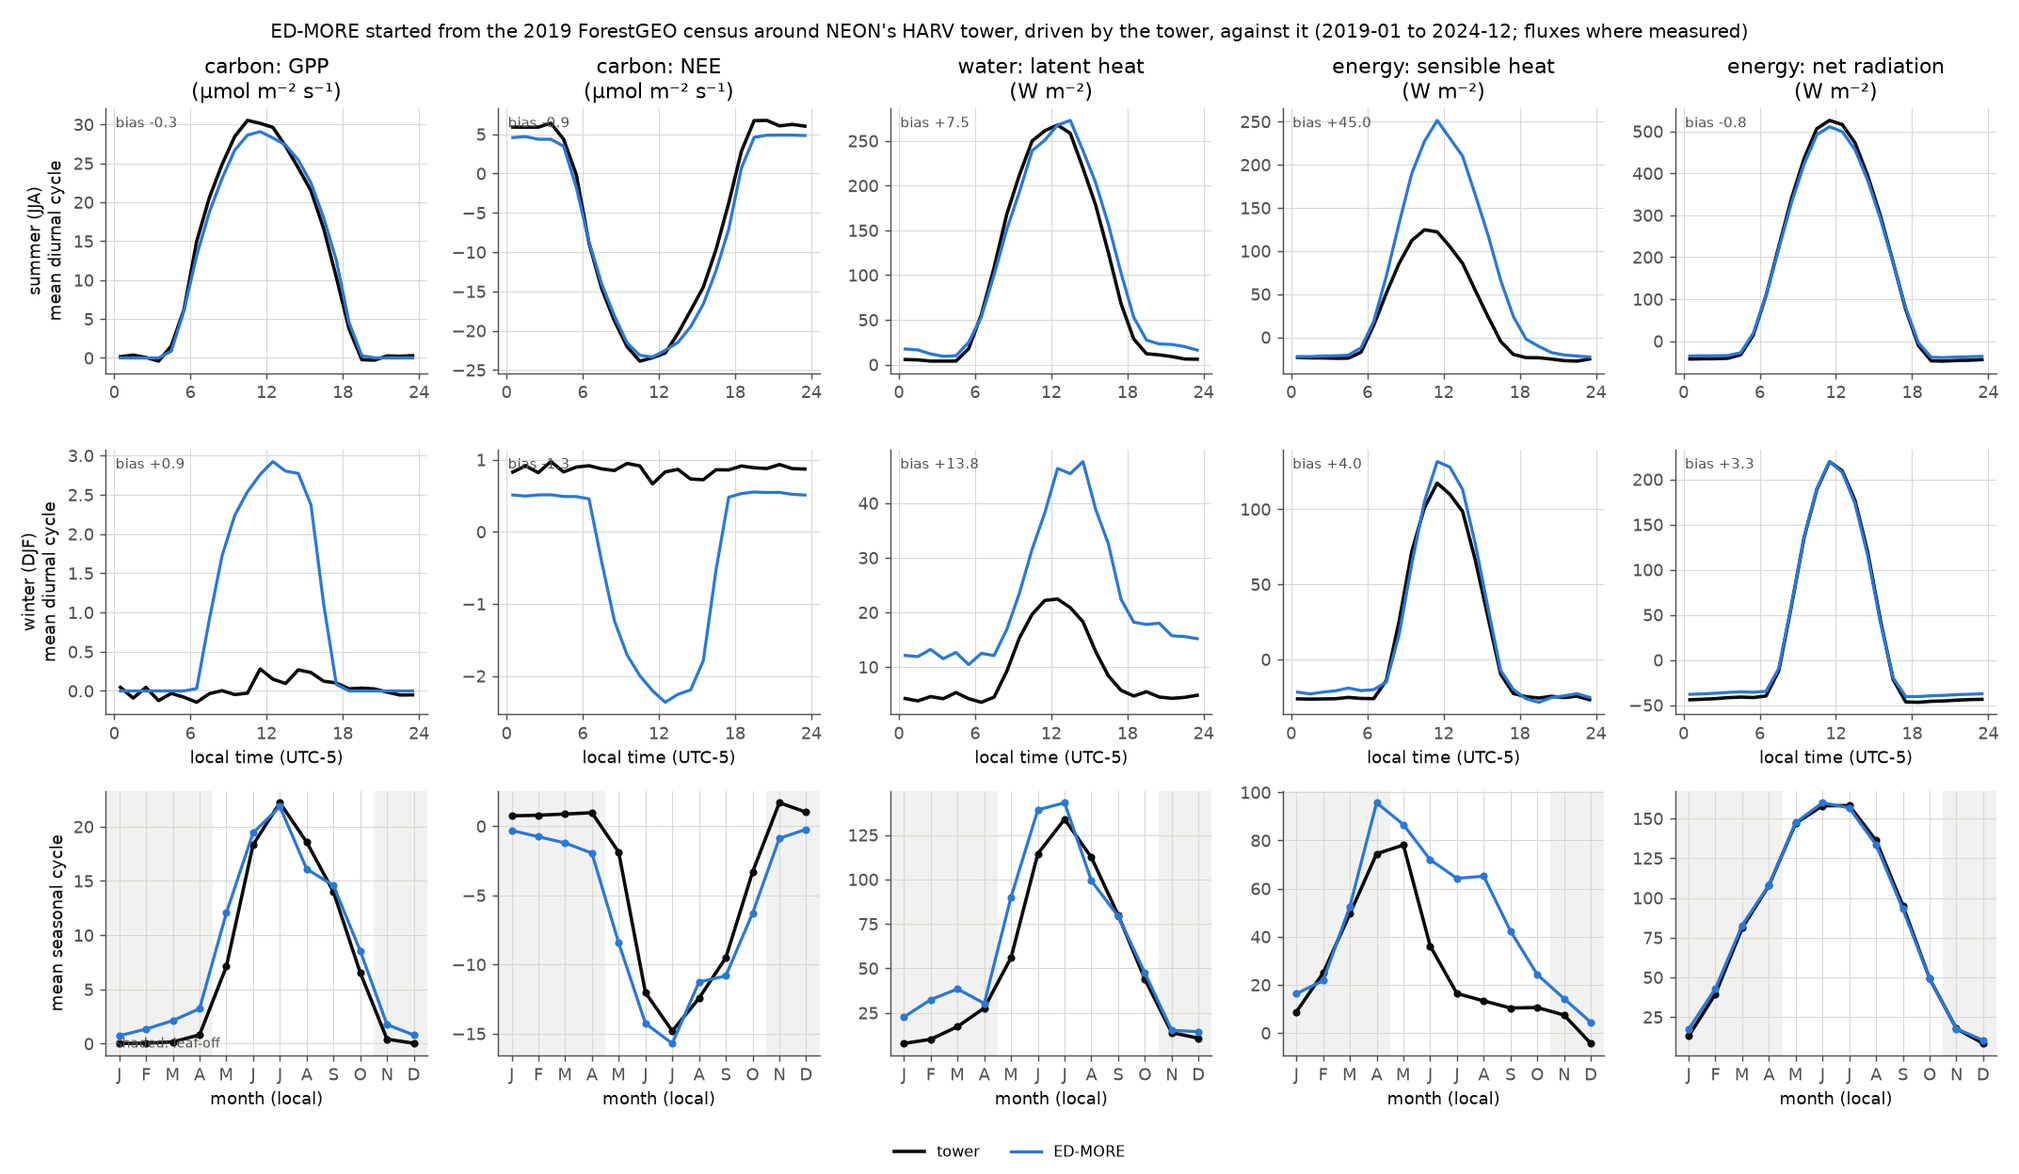
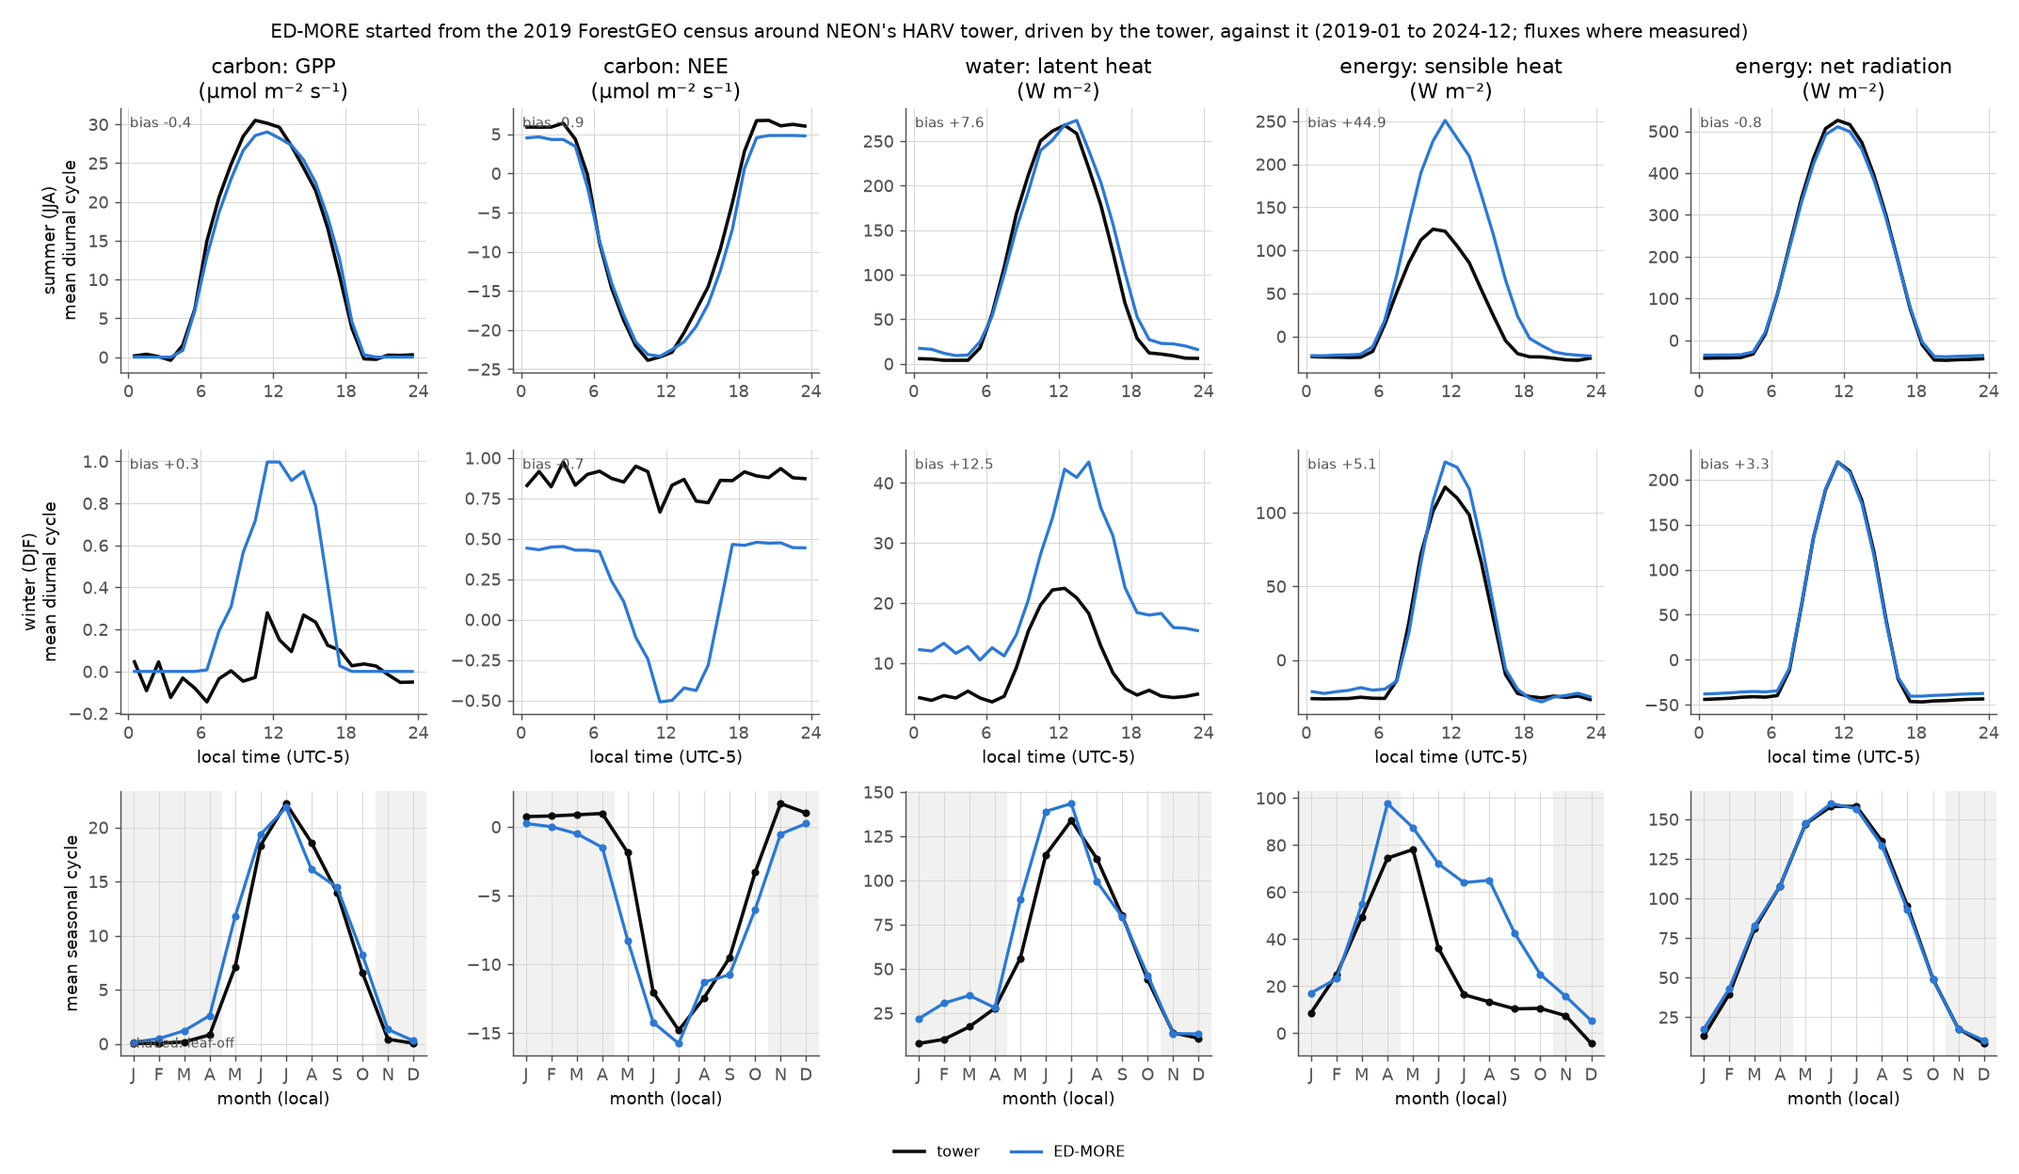
feat(examples): Harvard with the low-temperature limit; its snow pack and albedo against the measurements
The six years at NEON's HARV tower with every PFT's low-temperature limit at its default (no
calibration): GPP 7.53 against the tower's 6.60 umol m-2 s-1 (7.95 without the limit), the winter's
GPP bias +0.26 (+0.93), December-February's NEE a source (+0.16; tower +0.86), the summer unchanged.
April's conifers stay over three times the tower's GPP, and spring's NEE too strong.

plot_snow_albedo.py sets the snow pack against the Harvard Forest snow pillow (HF155, a canopy
opening 1.2 km west of the tower) and the midday albedo against NEON's radiometer; MODIS MCD43A3
joins it once NASA's request completes:
- the pack comes and goes on the right days (snow days within about 10 %), its peak within about a
  third (85/108, 82/60, 89/73, 69/37, 109/100, 31/55 mm, pillow/model, 2019-2024);
- albedo: summer 0.161 against 0.159; the leafless, snow-free canopy too bright (0.141 against
  0.125); with more than 40 mm of snow the tower reaches 0.181 and the model 0.163, under half the
  tower's rise from bare ground: the snow the model does not hold in the crowns.

diff --git a/examples/example04_column_biophysics/sites/harvard/plot_snow_albedo.py b/examples/example04_column_biophysics/sites/harvard/plot_snow_albedo.py
@@ -1,0 +1,179 @@
+#!/usr/bin/env python3
+# SPDX-License-Identifier: Apache-2.0
+"""plot_snow_albedo.py -- the Harvard site's snow pack and albedo against what was measured, with the
+default parameters (no calibration).
+
+* Snow: the model's snow water equivalent (daily) against the Harvard Forest snow pillow (HF155: a
+  15 m canopy opening 1.2 km west of the tower, cut so that branches do not intercept the snow; daily
+  SWE, 2009-). ED-MORE holds no snow in the canopy, so all of its snow lies on the ground, as the
+  pillow's does.
+* Albedo: the midday (10-14 local, incoming shortwave above 200 W m-2) ratio of reflected to incoming
+  shortwave, the model's at its canopy top against the tower's four-component radiometer at 39 m, by
+  calendar month and against the snow on the ground; and MODIS MCD43A3 (the 3 x 3 500 m pixels around
+  the towers, shortwave white- and black-sky, good-quality retrievals) where it has been fetched.
+
+Usage: python plot_snow_albedo.py --data <harvard data> [--model output/eval] [--out snow_albedo.png]
+"""
+import argparse
+import glob
+import json
+import os
+import sys
+
+import matplotlib
+matplotlib.use("Agg")
+import matplotlib.pyplot as plt  # noqa: E402
+import numpy as np  # noqa: E402
+import pandas as pd  # noqa: E402
+from netCDF4 import Dataset  # noqa: E402
+
+HERE = os.path.dirname(os.path.abspath(__file__))
+sys.path.insert(0, os.path.join(HERE, "..", ".."))
+import evaluation as ev  # noqa: E402  (the example's colours and paths)
+import tower_inputs as ti  # noqa: E402  (on the path evaluation set)
+
+UTC_OFFSET_H = -5
+MIDDAY = (10, 14)              # [h local] the hours an albedo is taken over
+SW_MIN = 200.0                 # [W m-2] incoming shortwave an hour needs
+SNOW_SWE = 5.0                 # [mm] a day with at least this much water in the pack is a snow day
+
+
+def stamps(ds):
+    return pd.to_datetime(dict(year=ds["year"][:], month=ds["month"][:], day=ds["day"][:], hour=ds["hour"][:]))
+
+
+def read_model(prefix):
+    """The model's daily SWE [mm] and snow depth [m], and its hourly incoming and reflected shortwave,
+    on local time."""
+    with Dataset(prefix + "-D.nc") as ds:
+        t = pd.to_datetime(dict(year=ds["year"][:], month=ds["month"][:], day=ds["day"][:]))
+        daily = pd.DataFrame({"swe": np.asarray(ds["mean_swe_py"][:], float).squeeze(),
+                              "depth": np.asarray(ds["mean_snow_depth_py"][:], float).squeeze()}, index=t)
+    frames = []
+    for f in sorted(glob.glob(prefix + "-F-*.nc")):
+        with Dataset(f) as ds:
+            frames.append(pd.DataFrame({"sw_in": np.asarray(ds["mean_sw_in_py"][:], float).squeeze(),
+                                        "sw_up": np.asarray(ds["mean_sw_up_py"][:], float).squeeze()},
+                                       index=stamps(ds) + pd.Timedelta(hours=UTC_OFFSET_H)))
+    return daily, pd.concat(frames).sort_index()
+
+
+def read_tower_albedo(site_toml):
+    """The tower's hourly incoming and reflected shortwave where both were measured, on local time."""
+    table = ti.read_standard(ti.read_site(site_toml))
+    sw = pd.DataFrame({"sw_in": table.values["SWdown"].where(table.measured["SWdown"]),
+                       "sw_up": table.values["SW_out"].where(table.measured["SW_out"])})
+    hourly = sw.resample("1h").mean().where(sw.resample("1h").count() == 2)
+    return hourly.set_axis(hourly.index + pd.Timedelta(hours=UTC_OFFSET_H))
+
+
+def midday_albedo(hourly):
+    """Each day's midday albedo: reflected over incoming shortwave, summed over the bright midday hours."""
+    h = hourly[(hourly.index.hour >= MIDDAY[0]) & (hourly.index.hour < MIDDAY[1]) & (hourly["sw_in"] > SW_MIN)]
+    h = h.dropna()
+    s = h.groupby(h.index.normalize()).agg(sw_in=("sw_in", "sum"), sw_up=("sw_up", "sum"), n=("sw_in", "size"))
+    return (s["sw_up"] / s["sw_in"]).where(s["n"] >= 2)
+
+
+def read_pillow(data):
+    d = pd.read_csv(os.path.join(data, "hf_archive", "hf155", "hf155-01-daily.csv"), parse_dates=["date"])
+    return d.set_index("date")["swe"]
+
+
+def read_modis(data):
+    """MODIS MCD43A3 shortwave albedo (the mean of white and black sky, good retrievals), the mean of the
+    pixels per date; None until the AppEEARS request has been fetched."""
+    files = sorted(glob.glob(os.path.join(data, "modis", "mcd43a3_appeears*", "*MCD43A3*results*.csv")))
+    if not files:
+        return None
+    d = pd.read_csv(files[0], parse_dates=["Date"])
+    bsa = [c for c in d.columns if c.endswith("Albedo_BSA_shortwave")][0]
+    wsa = [c for c in d.columns if c.endswith("Albedo_WSA_shortwave")][0]
+    qc = [c for c in d.columns if c.endswith("BRDF_Albedo_Band_Mandatory_Quality_shortwave")][0]
+    ok = (d[qc] == 0) & d[bsa].between(0, 1) & d[wsa].between(0, 1)
+    d = d[ok]
+    return (0.5 * (d[bsa] + d[wsa])).groupby(d["Date"]).mean()
+
+
+def main(argv=None):
+    ap = argparse.ArgumentParser(description=__doc__.splitlines()[0])
+    ap.add_argument("--data", default=os.environ.get("HARVARD_DATA"), required=os.environ.get("HARVARD_DATA") is None)
+    ap.add_argument("--model", default=os.path.join(HERE, "output", "eval"), help="the run's output prefix")
+    ap.add_argument("--site", default=os.path.join(HERE, "harvard_site.toml"))
+    ap.add_argument("--out", default=os.path.join(HERE, "snow_albedo.png"))
+    ap.add_argument("--stats", default=os.path.join(HERE, "output", "snow_albedo_stats.json"))
+    args = ap.parse_args(argv)
+
+    daily, hourly = read_model(args.model)
+    pillow = read_pillow(args.data).reindex(daily.index)
+    a_model = midday_albedo(hourly)
+    a_tower = midday_albedo(read_tower_albedo(args.site)).reindex(a_model.index)
+    modis = read_modis(args.data)
+    days = pd.DataFrame({"swe_model": daily["swe"], "swe_pillow": pillow, "a_model": a_model, "a_tower": a_tower})
+
+    #----- the winters: November-April, labelled by the year they end in ------------------------------#
+    winter = days[days.index.month.isin([11, 12, 1, 2, 3, 4])].copy()
+    winter["winter"] = np.where(winter.index.month >= 11, winter.index.year + 1, winter.index.year)
+    rows = {}
+    for w, g in winter.groupby("winter"):
+        if g["swe_pillow"].notna().sum() < 100:
+            continue
+        both = g.dropna(subset=["swe_model", "swe_pillow"])
+        rows[int(w)] = {"peak_pillow": float(both["swe_pillow"].max()), "peak_model": float(both["swe_model"].max()),
+                        "snow_days_pillow": int((both["swe_pillow"] >= SNOW_SWE).sum()),
+                        "snow_days_model": int((both["swe_model"] >= SNOW_SWE).sum()),
+                        "mean_pillow": float(both["swe_pillow"].mean()), "mean_model": float(both["swe_model"].mean())}
+    #----- the albedo, by month and by snow -----------------------------------------------------------#
+    both = days.dropna(subset=["a_model", "a_tower"])
+    monthly = both.groupby(both.index.month)[["a_tower", "a_model"]].mean()
+    snowy = both[both["swe_pillow"] >= SNOW_SWE]
+    bare_winter = both[(both["swe_pillow"] < SNOW_SWE) & both.index.month.isin([12, 1, 2, 3])]
+    summer = both[both.index.month.isin([6, 7, 8])]
+    stats = {"winters": rows,
+             "albedo_monthly": {int(k): {"tower": float(v["a_tower"]), "model": float(v["a_model"])} for k, v in monthly.iterrows()},
+             "albedo_snow_on_ground": {"tower": float(snowy["a_tower"].mean()), "model": float(snowy["a_model"].mean()), "days": int(len(snowy))},
+             "albedo_dec_mar_no_snow": {"tower": float(bare_winter["a_tower"].mean()), "model": float(bare_winter["a_model"].mean()),
+                                        "days": int(len(bare_winter))},
+             "albedo_jja": {"tower": float(summer["a_tower"].mean()), "model": float(summer["a_model"].mean()), "days": int(len(summer))}}
+    if modis is not None:
+        mm = modis.groupby(modis.index.month).mean()
+        stats["albedo_monthly_modis"] = {int(k): float(v) for k, v in mm.items()}
+
+    #----- the figure ---------------------------------------------------------------------------------#
+    plt.rcParams.update({"axes.edgecolor": ev.MUTED, "axes.labelcolor": ev.INK, "xtick.color": ev.MUTED,
+                         "ytick.color": ev.MUTED, "axes.grid": True, "grid.color": ev.GRID, "grid.linewidth": 0.6,
+                         "axes.spines.top": False, "axes.spines.right": False, "axes.axisbelow": True})
+    fig = plt.figure(figsize=(14, 8.2))
+    ax_swe = fig.add_subplot(2, 1, 1)
+    ax_swe.plot(days.index, days["swe_pillow"], color=ev.TOWER, lw=1.4, label="snow pillow (HF155, canopy opening)")
+    ax_swe.plot(days.index, days["swe_model"], color=ev.MODEL, lw=1.4, label="ED-MORE (ground under the canopy)")
+    ax_swe.set(ylabel="snow water equivalent [mm]", title="snow on the ground")
+    ax_swe.legend(frameon=False, fontsize=9, loc="upper right")
+    ax_m = fig.add_subplot(2, 2, 3)
+    ax_m.plot(monthly.index, monthly["a_tower"], color=ev.TOWER, lw=2, marker="o", ms=3.5, label="tower (39 m)")
+    ax_m.plot(monthly.index, monthly["a_model"], color=ev.MODEL, lw=1.8, marker="o", ms=3.5, label="ED-MORE")
+    if modis is not None:
+        ax_m.plot(mm.index, mm.values, color=ev.MUTED, lw=1.4, ls="--", marker="s", ms=3, label="MODIS MCD43A3")
+    ax_m.set(xlim=(0.5, 12.5), xticks=range(1, 13), xticklabels=list(ev.MONTHS), xlabel="month (local)",
+             ylabel="midday shortwave albedo", title="albedo by month")
+    ax_m.legend(frameon=False, fontsize=9)
+    ax_s = fig.add_subplot(2, 2, 4)
+    w = both[both.index.month.isin([12, 1, 2, 3])]
+    ax_s.scatter(w["swe_pillow"], w["a_tower"], s=8, color=ev.TOWER, alpha=0.6, label="tower")
+    ax_s.scatter(w["swe_model"], w["a_model"], s=8, color=ev.MODEL, alpha=0.6, label="ED-MORE")
+    ax_s.set(xlabel="snow water equivalent [mm] (pillow for the tower, the model's own)",
+             ylabel="midday shortwave albedo", title="December-March: albedo against the snow pack")
+    ax_s.legend(frameon=False, fontsize=9)
+    fig.suptitle("Harvard Forest, default parameters: snow and albedo against the snow pillow, NEON's radiometer"
+                 + (" and MODIS" if modis is not None else ""), color=ev.INK, fontsize=11)
+    fig.tight_layout()
+    fig.savefig(args.out, dpi=130)
+    os.makedirs(os.path.dirname(os.path.abspath(args.stats)), exist_ok=True)
+    with open(args.stats, "w") as fh:
+        json.dump(stats, fh, indent=2)
+    print(f"figure: {args.out}")
+    print(json.dumps(stats, indent=1))
+
+
+if __name__ == "__main__":
+    main()

diff --git a/examples/example04_column_biophysics/sites/harvard/README.md b/examples/example04_column_biophysics/sites/harvard/README.md
@@ -16,7 +16,7 @@ python run_site.py ... --calibrate --workers 40
 
 `<harvard data>` is example 07's data folder (its `fetch_data.py`), with NEON's weighing gauge
 (DP1.00044.001) and soil megapit (DP1.00096.001) in `neon/`. The FLUXNET zip comes from AmeriFlux with an
-account. Six years take about 12 minutes on 8 threads with the dev build.
+account. Six years take about 6 minutes on 8 threads with the dev build.
 
 ## The data
 
@@ -32,11 +32,13 @@ account. Six years take about 12 minutes on 8 threads with the dev build.
 - **Two PFTs** ([`pft_parameters.toml`](pft_parameters.toml)): a cold-deciduous broadleaf (example 02's
   Harvard phenology) and an evergreen conifer. Example 07's Harvard allometry and foliage optics. The stand
   starts at LAI 3.9 (broadleaf, in leaf) + 1.8 (conifer) and 14.7 kgC m⁻² aboveground.
+- **Both PFTs' capacities fall away near freezing**, by every PFT's low-temperature limit at its default
+  (ED2's 4.7 °C; [`leaf_gas_exchange.md`](../../../../docs/science/leaf_gas_exchange.md) eq. (3b)).
 - **The soil** ([`ed_config_eval.toml`](ed_config_eval.toml)): 1.09 m of stony sandy loam above the dense till,
   one van Genuchten curve from the megapit's horizons by the model's texture formulas.
 - **CO₂** is held at 418 µmol mol⁻¹: the repository's CO₂ file ends in 2022.
 
-## Results (default parameters)
+## Results (default parameters, no calibration)
 
 ![ED-MORE against NEON's HARV tower, 2019-2024: summer and winter diurnal cycles and the seasonal cycle](evaluation.png)
 
@@ -44,31 +46,69 @@ Means over the tower's measured hours, 2019–2024 ([`plot_evaluation.py`](plot_
 
 | | tower | ED-MORE | bias in June–August | bias in December–February |
 |---|---|---|---|---|
-| GPP [µmol m⁻² s⁻¹] | 6.60 | 7.95 | −0.34 | +0.93 |
-| NEE [µmol m⁻² s⁻¹] | −3.38 | −5.57 | −0.88 | −1.29 |
-| LE [W m⁻²] | 53.7 | 64.2 | +7.5 | +13.8 |
-| H [W m⁻²] | 26.3 | 45.2 | +45.0 | +4.0 |
+| GPP [µmol m⁻² s⁻¹] | 6.60 | 7.53 | −0.37 | +0.26 |
+| NEE [µmol m⁻² s⁻¹] | −3.38 | −5.24 | −0.90 | −0.70 |
+| LE [W m⁻²] | 53.7 | 63.2 | +7.7 | +12.5 |
+| H [W m⁻²] | 26.3 | 46.0 | +44.9 | +5.1 |
 | net radiation [W m⁻²] | 86.3 | 86.9 | −0.8 | +3.3 |
 
 - **Summer:** GPP's diurnal cycle and its July peak (22 µmol m⁻² s⁻¹) match, and net radiation is within
   1 W m⁻². The tower closes its energy balance to 0.76, and the calibration's attribution test gives the gap
   to H (H/Rnet rises 77 % from calm to turbulent hours, LE/Rnet does not), as at BCI: most of the model's
   higher summer H is that gap.
-- **Winter and spring: the conifers photosynthesize.** Midday GPP in December–February is 2.9 µmol m⁻² s⁻¹
-  in the model and 0.1 at the tower, and from January to April the model's forest is a sink where the
-  tower's is a source. ED-MORE has no cold down-regulation of an evergreen's photosynthesis. May is early
-  too (GPP 12 against 7, LE 90 against 56 W m⁻²).
+- **Winter: the conifers.** While the broadleaves are bare, the tower sees the conifers alone. Without the
+  low-temperature limit they photosynthesized through the winter; with it, in sunny hours:
+
+  | GPP [µmol m⁻² s⁻¹] | Jan | Feb | Mar | Apr | Nov | Dec |
+  |---|---|---|---|---|---|---|
+  | tower | 0.01 | 0.01 | 0.34 | 1.58 | 1.20 | 0.15 |
+  | without the limit | 2.05 | 3.30 | 5.13 | 6.48 | 5.44 | 2.68 |
+  | with it | 0.38 | 1.20 | 2.80 | 5.37 | 4.12 | 0.87 |
+
+  December–February's NEE turns from a sink (−0.43 µmol m⁻² s⁻¹) to a source (+0.16; the tower +0.86),
+  and the summer is unchanged. The tower measures no photosynthesis at all in winter, not even at midday:
+  its daytime NEE stays at +0.7 to +0.95.
+- **Spring is early.** April's conifers keep over three times the tower's GPP, and March–May's NEE is −3.9
+  µmol m⁻² s⁻¹ against −0.2 at the tower, with May's leaf-out (GPP 18 against 11 in May).
 - **Soil water.** At 15–60 cm NEON's sensors (DP1.00094.001) read 0.12–0.14 m³ m⁻³ in summer; the column
   holds 0.15–0.17. With a sealed base instead of a free-draining one it holds 0.32–0.34 and LE rises by
   17 W m⁻²: the free-draining base is the one to keep.
 
+### Snow and albedo
+
+![Snow water equivalent against the snow pillow, and the midday albedo against NEON's radiometer](snow_albedo.png)
+
+[`plot_snow_albedo.py`](plot_snow_albedo.py) sets the model's snow pack against the Harvard Forest snow
+pillow (HF155, in a 15 m canopy opening 1.2 km west of the tower, cut so that branches do not intercept
+the snow), and its midday albedo (10–14 h, shortwave above 200 W m⁻²) against the tower's radiometer.
+
+| winter (Nov–Apr) | 2019 | 2020 | 2021 | 2022 | 2023 | 2024 |
+|---|---|---|---|---|---|---|
+| peak SWE [mm], pillow / model | 85 / 108 | 82 / 60 | 89 / 73 | 69 / 37 | 109 / 100 | 31 / 55 |
+| days with ≥ 5 mm, pillow / model | 88 / 97 | 100 / 105 | 102 / 98 | 83 / 72 | 94 / 105 | 52 / 60 |
+
+- **The pack comes and goes on the right days**, and lasts about as many days. Its depth is right within
+  about a third: in 2020–2022 the model melts more of it in the mid-winter thaws, and in 2019 and 2024 it
+  holds more. On 3–4 April 2024 it turned 46 mm of precipitation near 0 °C into a 33 mm pack the pillow
+  never saw.
+- **Albedo, leaf-on:** 0.161 in June–August against the tower's 0.159. From August the tower's falls as
+  the leaves age (0.146–0.151 in August–October); the model's leaf optics do not change (0.156–0.162).
+- **Albedo, bare and snow-free:** the leafless canopy is too bright, 0.141 against 0.125 in December–March,
+  0.140 against 0.126 in April and 0.141 against 0.128 in November.
+- **Albedo, snow:** the tower's rises from 0.125 to 0.181 as the pillow's pack passes 40 mm; the model's
+  from 0.141 to 0.163, under half the rise. The snow ED-MORE does not hold in the crowns is the likely
+  reason: the model's snow lies only under them.
+
 ## Open
 
-- **Cold down-regulation of evergreen photosynthesis** (above): a missing process, not a parameter.
+- **Spring** (above): the conifers' April capacity, the broadleaves' leaf-out, and a lag the instantaneous
+  low-temperature limit does not have.
+- **Snow in the crowns:** the winter albedo's response to snow, and snow's interception and sublimation.
+- **The leafless canopy's brightness** and **autumn's leaf optics** (albedo above).
 - **Late summer:** H stays high in August–October beyond the closure gap, and GPP falls below the tower's
   in August, with the soil water at NEON's level: the stress on the column's sandy curve is the suspect.
 - **The calibration** ([`calibration.toml`](calibration.toml)) fits PFT 1's keys only; the leaf-on rule
   finds three calibration windows and one validation window, and no seasonal run.
-- **Snow:** the single-layer pack is not yet scored (HF155 SWE, NEON soil temperature under the pack).
+- **MODIS albedo** (MCD43A3) joins the albedo panel once NASA's AppEEARS request completes.
 - The tower's FLUXNET soil water (`SWC_F_MDS`) is almost all gap-filled; NEON's own soil sensors are the
   ones to score against.

diff --git a/examples/example04_column_biophysics/README.md b/examples/example04_column_biophysics/README.md
@@ -33,7 +33,7 @@ Means over each tower's measured hours ([`evaluation.py`](evaluation.py), each s
 |---|---|---|---|---|
 | BCI, default | 7.46 / 10.50 | 75.5 / 81.0 | 91.3 / 161.0 (by day) | 136.3 / 139.8 |
 | BCI, calibrated | 7.46 / 8.75 | 75.5 / 66.9 | 91.3 / 174.8 (by day) | 136.3 / 139.3 |
-| Harvard, default | 6.60 / 7.40 | 53.7 / 62.7 | 26.3 / 46.6 | 86.3 / 86.9 |
+| Harvard, default | 6.60 / 7.53 | 53.7 / 63.2 | 26.3 / 46.0 | 86.3 / 86.9 |
 
 Both towers close their energy balance to about 0.75 of the net radiation, and at both the calibration's
 attribution test gives the gap to H: most of the model's higher H is the tower's missing H. Each site's
